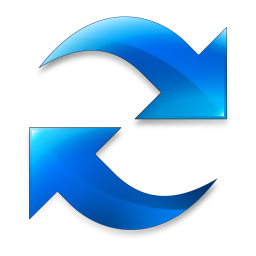
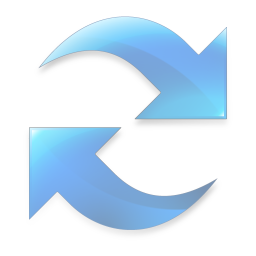
Minor fix

diff --git a/src/org/jboss/demos/client/NodeGroup.java b/src/org/jboss/demos/client/NodeGroup.java
@@ -263,10 +263,13 @@ public class NodeGroup {
             context.restore();
         }
         if(isReceiving) { // channel receiving
-//                context.setFillStyle(CssColor.make("blue"));
-//                context.rect(0, 0, nodeImageWidth, nodeImageHeight);
-//                context.fillRect(0, 0, 5, nodeImageHeight);
+//          context.setFillStyle(CssColor.make("blue"));
+//          context.rect(0, 0, nodeImageWidth, nodeImageHeight);
+//          context.fillRect(0, 0, 5, nodeImageHeight);
+            context.save();
+//            context.setGlobalAlpha(0.5);
             context.drawImage((ImageElement) refreshImg.getElement().cast(), (ClusterDemo.width-refreshImageWidth)/2, (ClusterDemo.height-refreshImageHeight)/2);
+            context.restore();
 
         }
         inDrawing = false;

diff --git a/src/org/jboss/demos/server/ManagementServiceImpl.java b/src/org/jboss/demos/server/ManagementServiceImpl.java
@@ -132,7 +132,7 @@ public class ManagementServiceImpl extends RemoteServiceServlet implements Manag
 
         ClusterInfo clusterInfo = new ClusterInfo();
         clusterInfo.setClusterNodes(clusterNodes);
-        if(count % 10 == 0) {
+        if(count % 6 == 0) {
             clusterInfo.setReceivedBytes(System.currentTimeMillis());
         }
         return clusterInfo;
